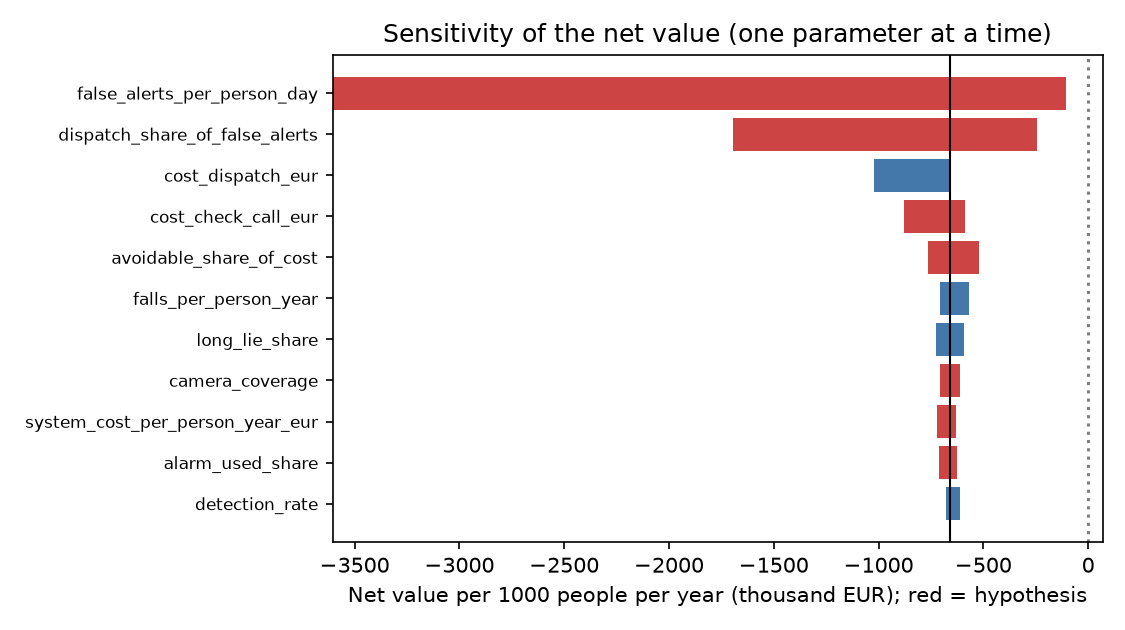
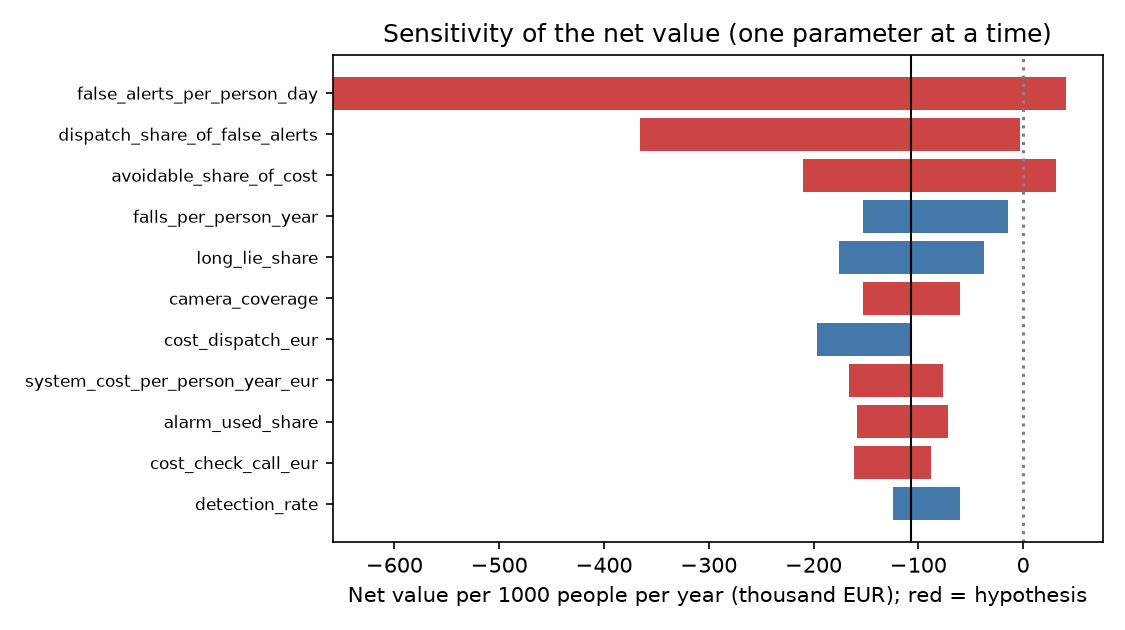
Present impact as scenarios with break-even and health benefits

diff --git a/src/impact.py b/src/impact.py
@@ -12,7 +12,8 @@ For N people monitored over one year:
 Also: break-even false-alert rate, cost ratio R = cost of a missed fall / cost of a false alert
 (used to choose the alert threshold in src/compare.py), and a one-at-a-time sensitivity analysis.
 
-Outputs: results/impact.md, results/impact_sensitivity.csv, results/impact_tornado.png,
+Outputs: results/impact.md, results/impact_scenarios.csv, results/impact_sensitivity.csv,
+results/impact_tornado.png,
 results/impact_break_even.png.
 Usage: python src/impact.py
 """
@@ -28,7 +29,14 @@ import yaml  # noqa: E402
 ROOT = Path(__file__).resolve().parents[1]
 CFG = yaml.safe_load((ROOT / "config" / "impact.yaml").read_text())
 RESULTS = ROOT / "results"
-PARAMS = [k for k, v in CFG.items() if isinstance(v, dict)]
+PARAMS = [k for k, v in CFG.items() if isinstance(v, dict) and "value" in v]
+SCENARIO_KEYS = ["false_alerts_per_person_day", "avoidable_share_of_cost",
+                 "dispatch_share_of_false_alerts", "detection_rate"]
+
+
+def every(rate):
+    """0.05 false alerts per day -> 'one every 20 days'."""
+    return "none" if rate <= 0 else f"one every {1 / rate:.0f} days"
 
 
 def compute(p, n=CFG["population"]):
@@ -93,9 +101,33 @@ def main():
     fig.tight_layout()
     fig.savefig(RESULTS / "impact_break_even.png", dpi=150)
 
+    scen = {name: compute({**base, **over}) | {**base, **over}
+            for name, over in CFG["scenarios"].items()}
+    pd.DataFrame(scen).T.to_csv(RESULTS / "impact_scenarios.csv", index_label="scenario")
+    be = r["break_even_false_alerts_per_day"]
     lines = [f"# Impact model (generated by src/impact.py from config/impact.yaml)\n",
-             f"For {CFG['population']} people monitored for one year (base values):\n",
-             "| Quantity | Value |", "|---|---|",
+             f"For {CFG['population']} people living alone with telecare, monitored for one year. "
+             "Every parameter is sourced or marked as a hypothesis in `config/impact.yaml`.\n",
+             "## When does it pay off?\n",
+             f"The decisive unknown is the **real-life false-alert rate**, which public videos cannot "
+             f"measure. With the central values, the system pays off if false alerts stay below "
+             f"**{be:.3f} per person per day ({every(be)})**.\n",
+             "| Scenario | False alerts per person | Avoidable share of a hospitalized fall's cost | "
+             "Detection rate | Long lies avoided | Net value per person per year |",
+             "|---|---|---|---|---|---|"]
+    lines += [f"| {name} | {every(s['false_alerts_per_person_day'])} | {s['avoidable_share_of_cost']:.0%} | "
+              f"{s['detection_rate']:.0%} | {s['long_lies_avoided']:.0f} | **{s['net_per_person_eur']:+,.0f} EUR** |"
+              for name, s in scen.items()]
+    lines += ["", "## Health benefits not counted in euros\n",
+              f"- About **{r['long_lies_avoided']:.0f} long lies (≥ 1 h on the floor) avoided per year** "
+              f"(central; {scen['pessimistic']['long_lies_avoided']:.0f} to "
+              f"{scen['optimistic']['long_lies_avoided']:.0f} across scenarios), out of "
+              f"{r['long_lies']:.0f}."]
+    lines += [f"- {c}" for c in CFG["health_context"]]
+    lines += ["- The euros above only count part of the hospital cost; deaths, moves into care homes "
+              "and quality of life are not monetized, so the value is a lower bound.",
+              "", "## Central scenario in detail\n",
+              "| Quantity | Value |", "|---|---|",
              f"| Long lies (≥ 1 h on the floor) | {r['long_lies']:.0f} |",
              f"| Long lies avoided by the camera | {r['long_lies_avoided']:.0f} |",
              f"| Value of avoided long lies | {r['value_eur']:,.0f} EUR |",
@@ -103,7 +135,7 @@ def main():
              f"| Cost of false alerts | {r['false_alert_cost_eur']:,.0f} EUR |",
              f"| System cost | {r['system_cost_eur']:,.0f} EUR |",
              f"| **Net value** | **{r['net_eur']:,.0f} EUR ({r['net_per_person_eur']:.0f} EUR / person / year)** |",
-             f"| Break-even false-alert rate | {r['break_even_false_alerts_per_day']:.2f} per person per day |",
+             f"| Break-even false-alert rate | {be:.3f} per person per day ({every(be)}) |",
              f"| R = cost of a missed fall / cost of a false alert | {r['R_missed_fall_vs_false_alert']:.0f} |",
              "", "## Sensitivity (one parameter at a time, low → high)", "",
              "| Parameter | Range | Net value (EUR) | Kind |", "|---|---|---|---|"]

diff --git a/results/impact.md b/results/impact.md
@@ -1,31 +1,51 @@
 # Impact model (generated by src/impact.py from config/impact.yaml)
 
-For 1000 people monitored for one year (base values):
+For 1000 people living alone with telecare, monitored for one year. Every parameter is sourced or marked as a hypothesis in `config/impact.yaml`.
+
+## When does it pay off?
+
+The decisive unknown is the **real-life false-alert rate**, which public videos cannot measure. With the central values, the system pays off if false alerts stay below **0.021 per person per day (one every 47 days)**.
+
+| Scenario | False alerts per person | Avoidable share of a hospitalized fall's cost | Detection rate | Long lies avoided | Net value per person per year |
+|---|---|---|---|---|---|
+| optimistic | one every 100 days | 40% | 90% | 78 | **+291 EUR** |
+| central | one every 20 days | 20% | 68% | 58 | **-107 EUR** |
+| pessimistic | one every 5 days | 5% | 59% | 51 | **-1,802 EUR** |
+
+## Health benefits not counted in euros
+
+- About **58 long lies (≥ 1 h on the floor) avoided per year** (central; 51 to 78 across scenarios), out of 180.
+- Long lies (>= 1 h on the floor) are strongly associated with serious injury, hospital admission and moves into long-term care (Fleming & Brayne, BMJ 2008, https://doi.org/10.1136/bmj.a2227).
+- After a hospitalized fall, the adjusted risk of death over 2 years is 2.14 times higher than for matched non-fallers (Mounié et al., JAMDA 2023, Santé publique France).
+- France, people 65+, 2024: 174,824 hospitalizations and 20,148 deaths related to a fall (Santé publique France, national bulletin of 12 March 2026).
+- The euros above only count part of the hospital cost; deaths, moves into care homes and quality of life are not monetized, so the value is a lower bound.
+
+## Central scenario in detail
 
 | Quantity | Value |
 |---|---|
 | Long lies (≥ 1 h on the floor) | 180 |
 | Long lies avoided by the camera | 58 |
 | Value of avoided long lies | 137,589 EUR |
-| False alerts | 73,000 (cost 10.09 EUR each) |
-| Cost of false alerts | 736,570 EUR |
+| False alerts | 18,250 (cost 10.09 EUR each) |
+| Cost of false alerts | 184,142 EUR |
 | System cost | 60,000 EUR |
-| **Net value** | **-658,981 EUR (-659 EUR / person / year)** |
-| Break-even false-alert rate | 0.02 per person per day |
+| **Net value** | **-106,554 EUR (-107 EUR / person / year)** |
+| Break-even false-alert rate | 0.021 per person per day (one every 47 days) |
 | R = cost of a missed fall / cost of a false alert | 70 |
 
 ## Sensitivity (one parameter at a time, low → high)
 
 | Parameter | Range | Net value (EUR) | Kind |
 |---|---|---|---|
-| false_alerts_per_person_day | 0.05 – 1.0 | -106,554 → -3,605,261 | hypothesis |
-| dispatch_share_of_false_alerts | 0.01 – 0.15 | -244,925 → -1,694,121 | hypothesis |
-| cost_dispatch_eur | 141.8 – 241.0 | -658,981 → -1,021,061 | sourced/measured |
-| cost_check_call_eur | 2.0 – 6.0 | -585,981 → -877,981 | hypothesis |
-| avoidable_share_of_cost | 0.05 – 0.4 | -762,173 → -521,393 | hypothesis |
-| falls_per_person_year | 0.4 – 1.0 | -704,844 → -567,256 | sourced/measured |
-| long_lie_share | 0.15 – 0.45 | -727,776 → -590,187 | sourced/measured |
-| camera_coverage | 0.4 – 0.8 | -704,844 → -613,119 | hypothesis |
-| system_cost_per_person_year_eur | 30.0 – 120.0 | -628,981 → -718,981 | hypothesis |
-| alarm_used_share | 0.0 – 0.5 | -624,584 → -710,577 | hypothesis |
-| detection_rate | 0.59 – 0.9 | -676,307 → -613,119 | sourced/measured |
+| false_alerts_per_person_day | 0.01 – 0.2 | 40,760 → -658,981 | hypothesis |
+| dispatch_share_of_false_alerts | 0.01 – 0.15 | -3,040 → -365,339 | hypothesis |
+| avoidable_share_of_cost | 0.05 – 0.4 | -209,745 → 31,035 | hypothesis |
+| falls_per_person_year | 0.4 – 1.0 | -152,417 → -14,828 | sourced/measured |
+| long_lie_share | 0.15 – 0.45 | -175,348 → -37,760 | sourced/measured |
+| camera_coverage | 0.4 – 0.8 | -152,417 → -60,691 | hypothesis |
+| cost_dispatch_eur | 141.8 – 241.0 | -106,554 → -197,074 | sourced/measured |
+| system_cost_per_person_year_eur | 30.0 – 120.0 | -76,554 → -166,554 | hypothesis |
+| alarm_used_share | 0.0 – 0.5 | -72,157 → -158,150 | hypothesis |
+| cost_check_call_eur | 2.0 – 6.0 | -88,304 → -161,304 | hypothesis |
+| detection_rate | 0.59 – 0.9 | -123,880 → -60,691 | sourced/measured |

diff --git a/results/p5_notes.md b/results/p5_notes.md
@@ -131,22 +131,32 @@ the extended delay.)
 
 ## 4 ter. Impact (`src/impact.py`, `config/impact.yaml`, `results/impact.md`)
 
-For 1,000 people living alone with telecare, over one year (base values; each parameter sourced
-or marked as a hypothesis in `config/impact.yaml`):
+For 1,000 people living alone with telecare, over one year (each parameter sourced or marked as
+a hypothesis in `config/impact.yaml`; full output in `results/impact.md`):
 - ~180 long lies (≥ 1 h on the floor; Fleming & Brayne, BMJ 2008), of which the camera would
-  cut short ~58 (one camera per home, detection 0.675 measured on GMDCSA-24, pendant alarms
-  already used in a minority of cases).
-- Value: ~138 k EUR (11,796 EUR extra cost in the year after a hospitalized fall, Santé publique
-  France 2023, × a hypothetical 20 % avoided by a fast alert).
-- **Everything depends on the real-life false-alert rate.** Each false alert costs ~10 EUR (a
-  check call + 5 % of dispatches at 141.80 EUR, SDIS 81). The system breaks even below **~0.02
-  false alerts per person per day** (one every ~7 weeks); at 0.2 / day it loses ~660 EUR per
-  person per year (`impact_break_even.png`, `impact_tornado.png`).
+  cut short **~58** (51 to 78 across scenarios): the health benefit, not converted to euros.
+- Value counted in euros: 11,796 EUR extra cost in the year after a hospitalized fall (Santé
+  publique France 2023) × a hypothetical 20 % avoided by a fast alert → ~138 k EUR. Deaths
+  (risk × 2.14 after a hospitalized fall), care-home moves and quality of life are not counted:
+  the euros are a lower bound.
+- **Everything depends on the real-life false-alert rate**, which public clips cannot measure.
+  Each false alert costs ~10 EUR (a check call + 5 % of dispatches at 141.80 EUR, SDIS 81).
+
+| Scenario | False alerts per person | Avoidable share | Detection | Net value per person per year |
+|---|---|---|---|---|
+| Optimistic | one every 100 days | 40 % | 90 % | +291 EUR |
+| Central | one every 20 days | 20 % | 68 % | −107 EUR |
+| Pessimistic | one every 5 days | 5 % | 59 % | −1,802 EUR |
+
+- Break-even: **one false alert per person every ~47 days** (`impact_break_even.png`); the
+  most influential parameters are the false-alert rate, the dispatch share and the avoidable
+  share of costs, all hypotheses (`impact_tornado.png`).
 - Cost ratio R (missed fall vs false alert) ≈ 70: a missed fall is much more costly, which
   supports a low alert threshold **followed by a confirmation step**, not a high threshold.
-- Reading: the model is useful only inside a two-step process (confirmation on the floor for
-  10-30 s, then a check call before any dispatch). Measuring the daily-life false-alert rate on
-  long team videos is the next step that decides whether it pays off.
+- Reading: the model is worth deploying only inside a two-step process (confirmation on the
+  floor for 10-30 s, then a check call before any dispatch), and only if a pilot confirms that
+  false alerts stay below the break-even rate. This is a clear go / no-go criterion for the
+  decision-maker.
 
 ## 5. Conclusion
 

diff --git a/CLAUDE.md b/CLAUDE.md
@@ -32,7 +32,7 @@ Benchmarks : le modèle naïf détecte 0/30 chutes ; les règles à seuils (≈ 
 2. **La solution :** une caméra qui ne garde que le squelette (vie privée), un modèle simple et rapide, et une alerte en deux temps (détection puis confirmation au sol).
 3. **Ça marche, avec des limites honnêtes :** 27/30 chutes sur URFD ; la performance baisse dans d'autres maisons (52/77 et 22/37), surtout avec une caméra placée haut.
 4. **Principale erreur :** se pencher vite pour ramasser un objet ressemble à une chute sur 1 s de squelette (`results/errors/*.png`).
-5. **Est-ce que ça compte (impact) :** pour 1 000 abonnés, ~58 longs séjours au sol évités par an (~138 k€). Mais **tout dépend du taux de fausses alertes en vie réelle** : rentable seulement sous ~0,02 fausse alerte par personne et par jour (`results/impact_break_even.png`). D'où la recommandation : confirmation longue (10-30 s au sol) puis appel de vérification avant toute sortie.
+5. **Est-ce que ça compte (impact) :** pour 1 000 abonnés, ~58 longs séjours au sol (≥ 1 h) évités par an : c'est le bénéfice santé. En euros, **tout dépend du taux de fausses alertes en vie réelle**, qu'on ne peut pas mesurer : +291 € par personne et par an dans le scénario optimiste (1 fausse alerte tous les 100 jours), −107 € au centre (1 tous les 20 jours), −1 802 € au pessimiste (1 tous les 5 jours). **Rentable sous ~1 fausse alerte par personne tous les 47 jours** (`results/impact.md`, `results/impact_break_even.png`). Les euros sont un minimum : décès, entrées en EHPAD et qualité de vie ne sont pas comptés. D'où la recommandation : confirmation longue (10-30 s au sol), appel de vérification avant toute sortie, et un pilote pour mesurer le vrai taux de fausses alertes (critère clair de go / no-go).
 6. **Recommandation :** un pilote chez un opérateur de téléassistance, pour mesurer le vrai taux de fausses alertes. C'est la donnée qui manque.
 
 **Ce qu'on ne doit PAS dire :** un taux de fausses alertes par heure en vie réelle (nos vidéos d'activités ne font que quelques minutes) ; que ça marche partout (3 datasets, peu de personnes) ; que les euros de l'impact sont certains (plusieurs paramètres sont des hypothèses, marqués comme tels).
@@ -85,7 +85,7 @@ La consigne du cours (document « Team project description », 15.071) : problè
 | 4 | Les modèles comparés | 6 modèles, du naïf au réseau ; boosting retenu ; `results/pr_curves.png` |
 | 5 | Est-ce que ça marche | tableau 0.2 ; une image d'erreur (`results/errors/boosting_adl-05.png`) |
 | 6 | Test sur nos vidéos | 1-2 frises `results/own/*.png` (0.4) |
-| 7 | Est-ce que ça compte | `results/impact_break_even.png` + chiffres 0.2 (message 5) |
+| 7 | Est-ce que ça compte | ~58 longs séjours au sol évités ; tableau des 3 scénarios (`results/impact.md`) ; `results/impact_break_even.png` (message 5) |
 | 8 | Recommandation et limites | pilote, confirmation longue + appel ; ce qu'on ne peut pas affirmer |
 
 ### 0.6 Vidéo de 2 minutes (pitch au décideur)

diff --git a/README.md b/README.md
@@ -55,11 +55,21 @@ confirmation):
 
 Performance drops when the room, the camera and the people change: this is the main limit.
 
-**Impact** (`config/impact.yaml` → `results/impact.md`; every number has a source or is marked
-as a hypothesis). For 1,000 people monitored for a year, about 58 long stays on the floor (≥ 1 h)
-would be avoided, worth about 138,000 EUR. But it only pays off if false alerts stay rare in daily
-life: **below about 1 false alert per person every 7 weeks**. That rate cannot be measured on
-public videos, so a pilot with a telecare operator is the next step.
+**Impact** (`config/impact.yaml` → [`results/impact.md`](results/impact.md); every number has
+a source or is marked as a hypothesis). For 1,000 people monitored for a year, about **58 long
+stays on the floor (≥ 1 h) avoided** (51 to 78 depending on the scenario). In euros, the result
+depends on one unknown, the real-life false-alert rate (each false alert costs ~10 EUR: a check
+call, sometimes a dispatch):
+
+| Scenario | False alerts per person | Net value per person per year |
+|---|---|---|
+| Optimistic | one every 100 days | +291 EUR |
+| Central | one every 20 days | −107 EUR |
+| Pessimistic | one every 5 days | −1,802 EUR |
+
+**It pays off if false alerts stay below about one per person every 47 days.** The euros only
+count part of the hospital cost (not deaths, care-home moves or quality of life), so they are a
+lower bound. Next step: a pilot with a telecare operator to measure the real false-alert rate.
 
 **Limits.** 70 training videos, all filmed by the same camera; performance drops in other homes;
 the daily-life videos only last a few minutes in total; the main error is bending down quickly,
